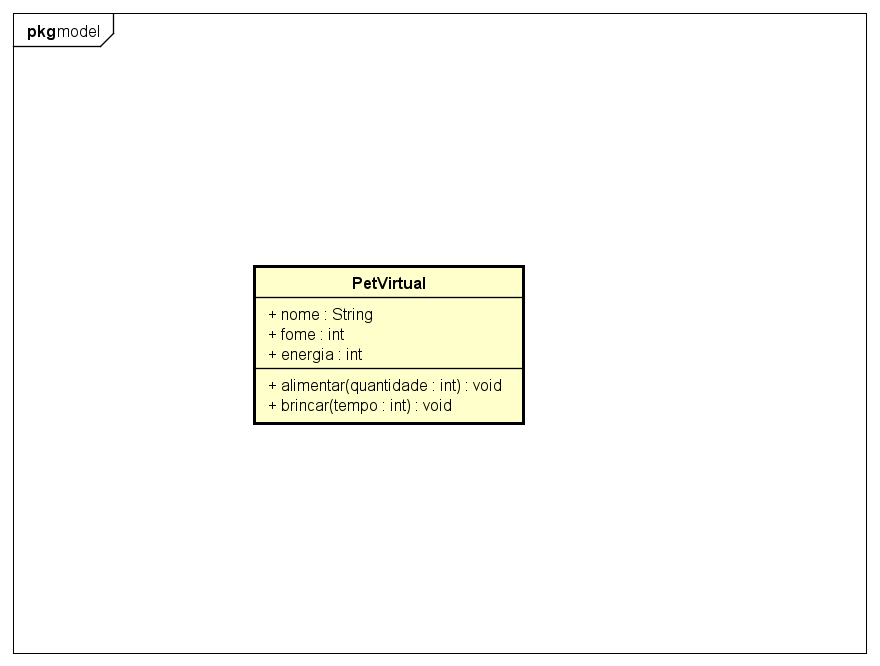
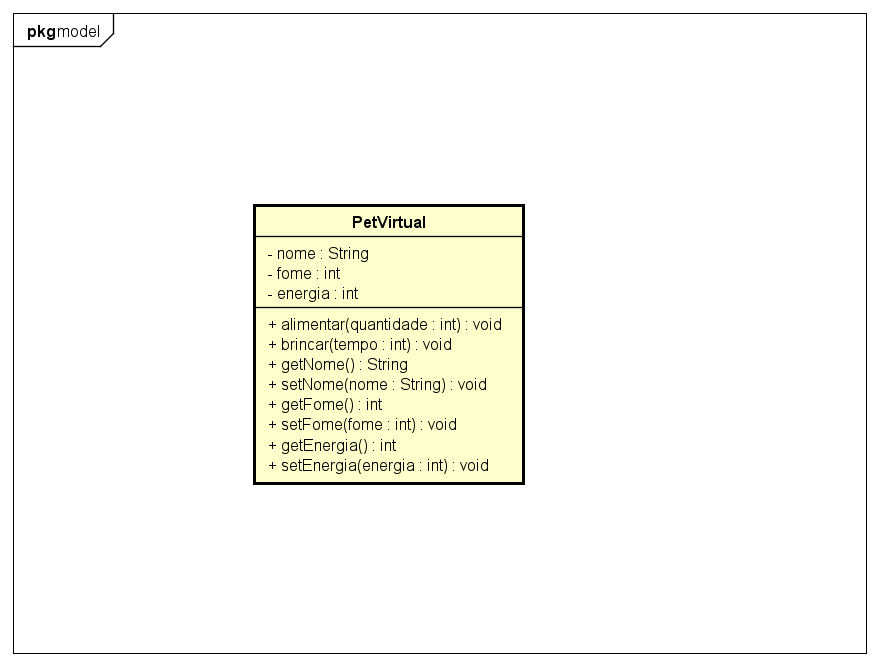
refactor: aplica encapsulamento na classe Passageiro e Objeto Pessoal

Changed region(s): [[0.2761, 0.3003, 0.6136, 0.7508]]

diff --git a/src/br/com/fiapride/main/SistemaPrincipal.java b/src/br/com/fiapride/main/SistemaPrincipal.java
@@ -11,9 +11,9 @@ public class SistemaPrincipal {
 
         PetVirtual pet = new PetVirtual();
 
-        pet.nome = "Pixel";
-        pet.fome = 40;
-        pet.energia = 80;
+        pet.setNome("Pixel");
+        pet.setFome(40);
+        pet.setEnergia(80);
 
         int opcao = -1;
 
@@ -23,6 +23,7 @@ public class SistemaPrincipal {
             System.out.println("1 - Alimentar");
             System.out.println("2 - Brincar");
             System.out.println("3 - Ver status");
+            System.out.println("4 - Testar proteção");
             System.out.println("0 - Sair");
             System.out.print("Escolha uma opção: ");
 
@@ -30,14 +31,14 @@ public class SistemaPrincipal {
 
             if (opcao == 1) {
 
-                System.out.print("Quanto deseja alimentar o " + pet.nome + "? ");
+                System.out.print("Quanto deseja alimentar o " + pet.getNome() + "? ");
                 int quantidade = scanner.nextInt();
 
                 pet.alimentar(quantidade);
 
             } else if (opcao == 2) {
 
-                System.out.print("Por quanto tempo deseja brincar com o " + pet.nome + "? ");
+                System.out.print("Por quanto tempo deseja brincar com o " + pet.getNome() + "? ");
                 int tempo = scanner.nextInt();
 
                 pet.brincar(tempo);
@@ -45,13 +46,21 @@ public class SistemaPrincipal {
             } else if (opcao == 3) {
 
                 System.out.println("\n--- STATUS ---");
-                System.out.println("Nome: " + pet.nome);
-                System.out.println("Fome: " + pet.fome);
-                System.out.println("Energia: " + pet.energia);
+                System.out.println("Nome: " + pet.getNome());
+                System.out.println("Fome: " + pet.getFome());
+                System.out.println("Energia: " + pet.getEnergia());
+
+            } else if (opcao == 4) {
+
+                System.out.println("\n--- TESTANDO PROTEÇÃO ---");
+
+                pet.setFome(-20);
+                pet.setEnergia(150);
+                pet.setNome("");
 
             } else if (opcao == 0) {
 
-                System.out.println("Até a próxima, " + pet.nome + "!");
+                System.out.println("Até a próxima, " + pet.getNome() + "!");
 
             } else {
 

diff --git a/src/br/com/fiapride/model/PetVirtual.java b/src/br/com/fiapride/model/PetVirtual.java
@@ -2,9 +2,9 @@ package br.com.fiapride.model;
 
 public class PetVirtual {
 
-    public String nome;
-    public int fome;
-    public int energia;
+    private String nome;
+    private int fome;
+    private int energia;
 
     public void alimentar(int quantidade) {
         if (quantidade <= 0) {
@@ -17,7 +17,8 @@ public class PetVirtual {
             return;
         }
 
-        fome -= quantidade;
+        setFome(fome - quantidade);
+
         System.out.println(nome + " foi alimentado. Fome atual: " + fome);
     }
 
@@ -37,8 +38,48 @@ public class PetVirtual {
             return;
         }
 
-        energia -= tempo;
-        fome += tempo;
+        setEnergia(energia - tempo);
+        setFome(fome + tempo);
+
         System.out.println(nome + " brincou. Energia: " + energia + " | Fome: " + fome);
+    }
+
+    public String getNome() {
+        return nome;
+    }
+
+    public void setNome(String nome) {
+        if (nome == null || nome.trim().isEmpty()) {
+            System.out.println("Erro: o nome não pode ficar vazio!");
+            return;
+        }
+
+        this.nome = nome;
+    }
+
+    public int getFome() {
+        return fome;
+    }
+
+    public void setFome(int fome) {
+        if (fome < 0 || fome > 100) {
+            System.out.println("Erro: a fome deve ficar entre 0 e 100!");
+            return;
+        }
+
+        this.fome = fome;
+    }
+
+    public int getEnergia() {
+        return energia;
+    }
+
+    public void setEnergia(int energia) {
+        if (energia < 0 || energia > 100) {
+            System.out.println("Erro: a energia deve ficar entre 0 e 100!");
+            return;
+        }
+
+        this.energia = energia;
     }
 }

diff --git a/README.md b/README.md
@@ -1,19 +1,16 @@
 # PetVirtual - Projeto Pessoal de POO
 
-O projeto começou com o objeto Garrafa. A partir desta etapa, o objeto pessoal foi alterado para `PetVirtual` para continuar a evolução nas próximas aulas.
+A classe `PetVirtual` representa um bichinho virtual inspirado em um Tamagotchi.
 
-A classe `PetVirtual` representa um bichinho virtual inspirado na ideia de um Tamagotchi.
+Nesta etapa foi aplicado encapsulamento: os atributos passaram a ser `private` e o acesso acontece por getters e setters.
 
-## Atributos
-- `nome`: nome do pet
-- `fome`: nível de fome
-- `energia`: nível de energia
+## Regras
+- o nome não pode ser vazio;
+- a fome deve ficar entre 0 e 100;
+- a energia deve ficar entre 0 e 100;
+- `alimentar` e `brincar` continuam protegendo o estado.
 
-## Métodos
-- `alimentar(int quantidade)`: diminui a fome e impede valores inválidos.
-- `brincar(int tempo)`: diminui a energia e aumenta a fome, mantendo os valores válidos.
-
-## Testes
-O programa principal executa testes válidos e inválidos para verificar as regras dos métodos.
+## Teste
+`TestePetVirtual.java` testa o uso normal e também tenta informar valores inválidos.
 
 Autor: Lucas Mota - RM566670
